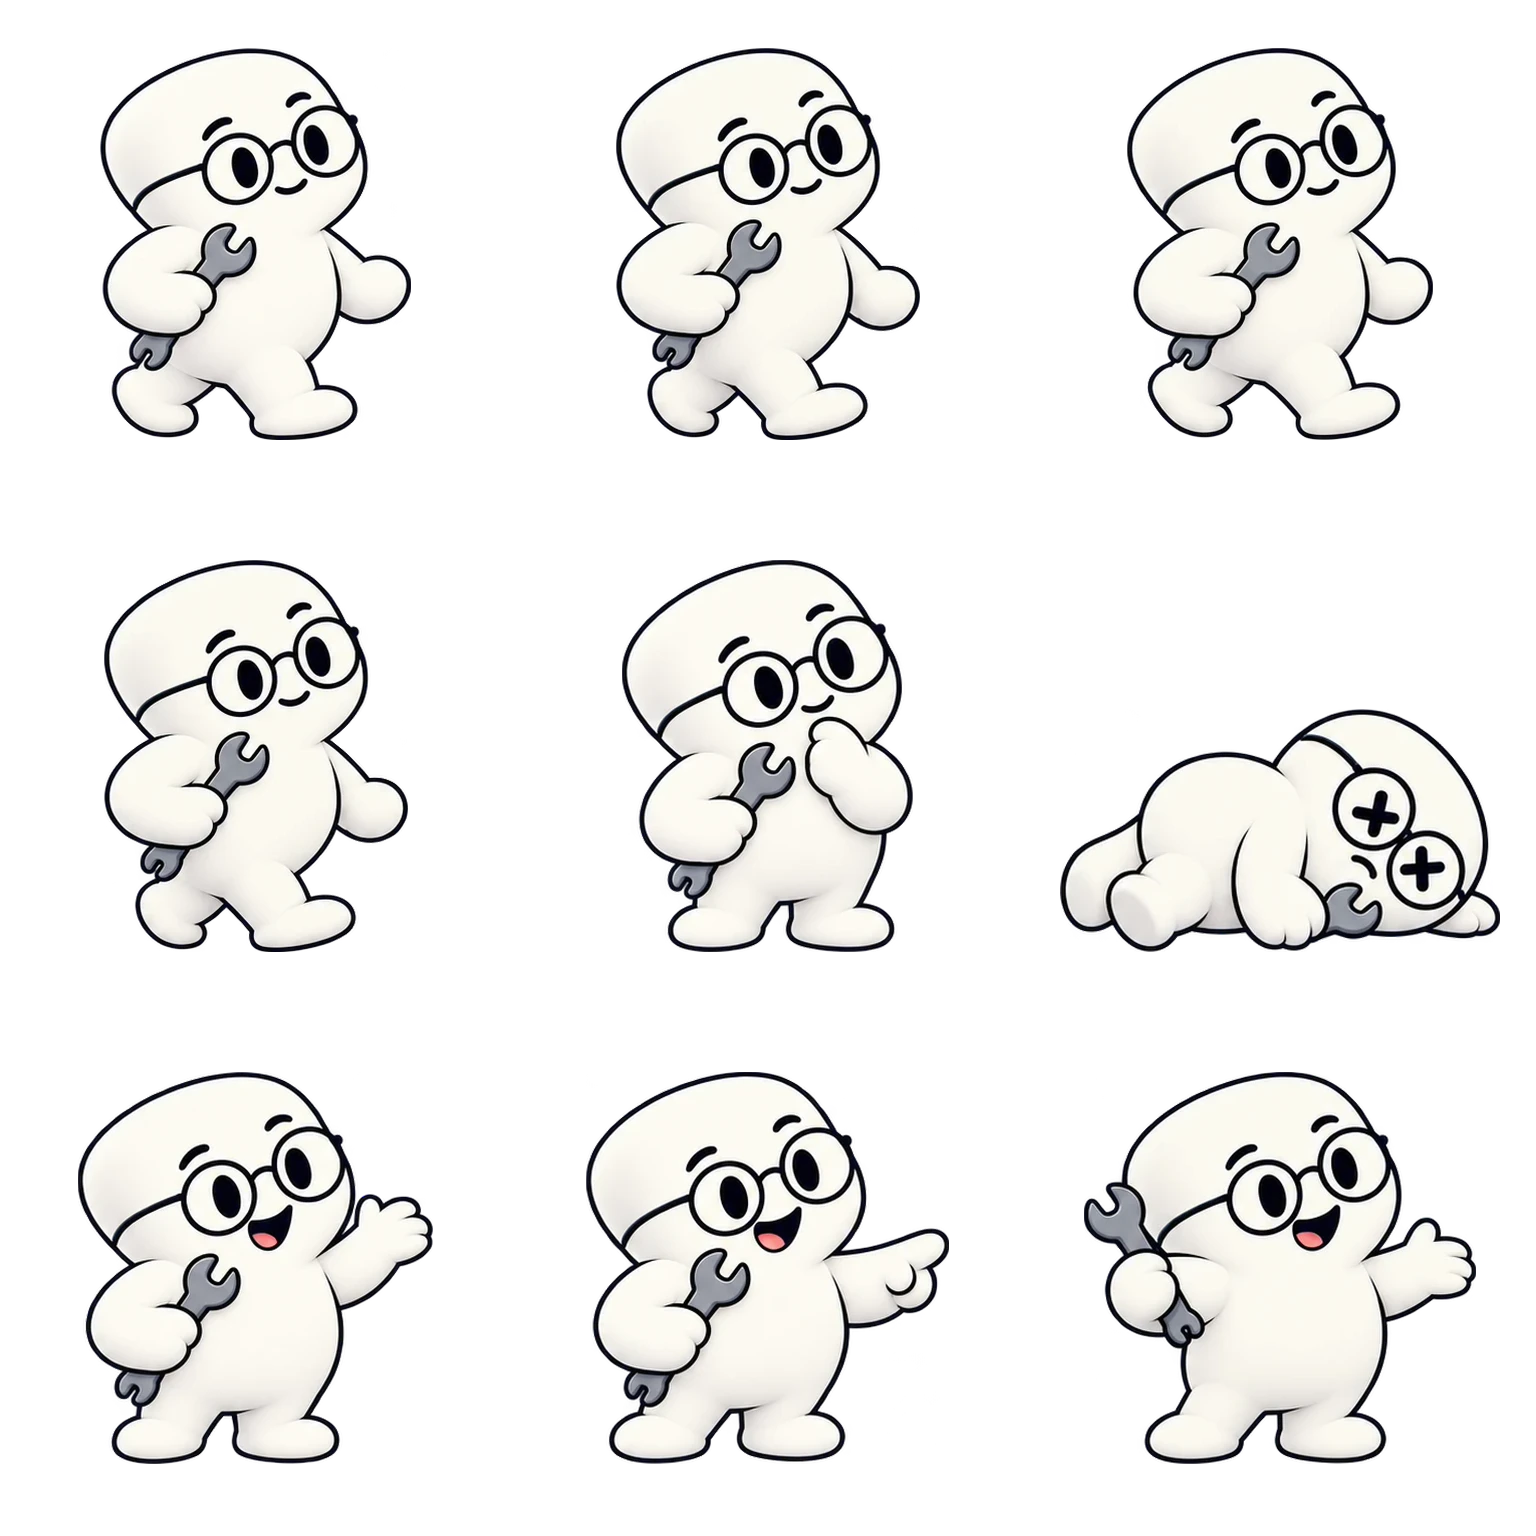
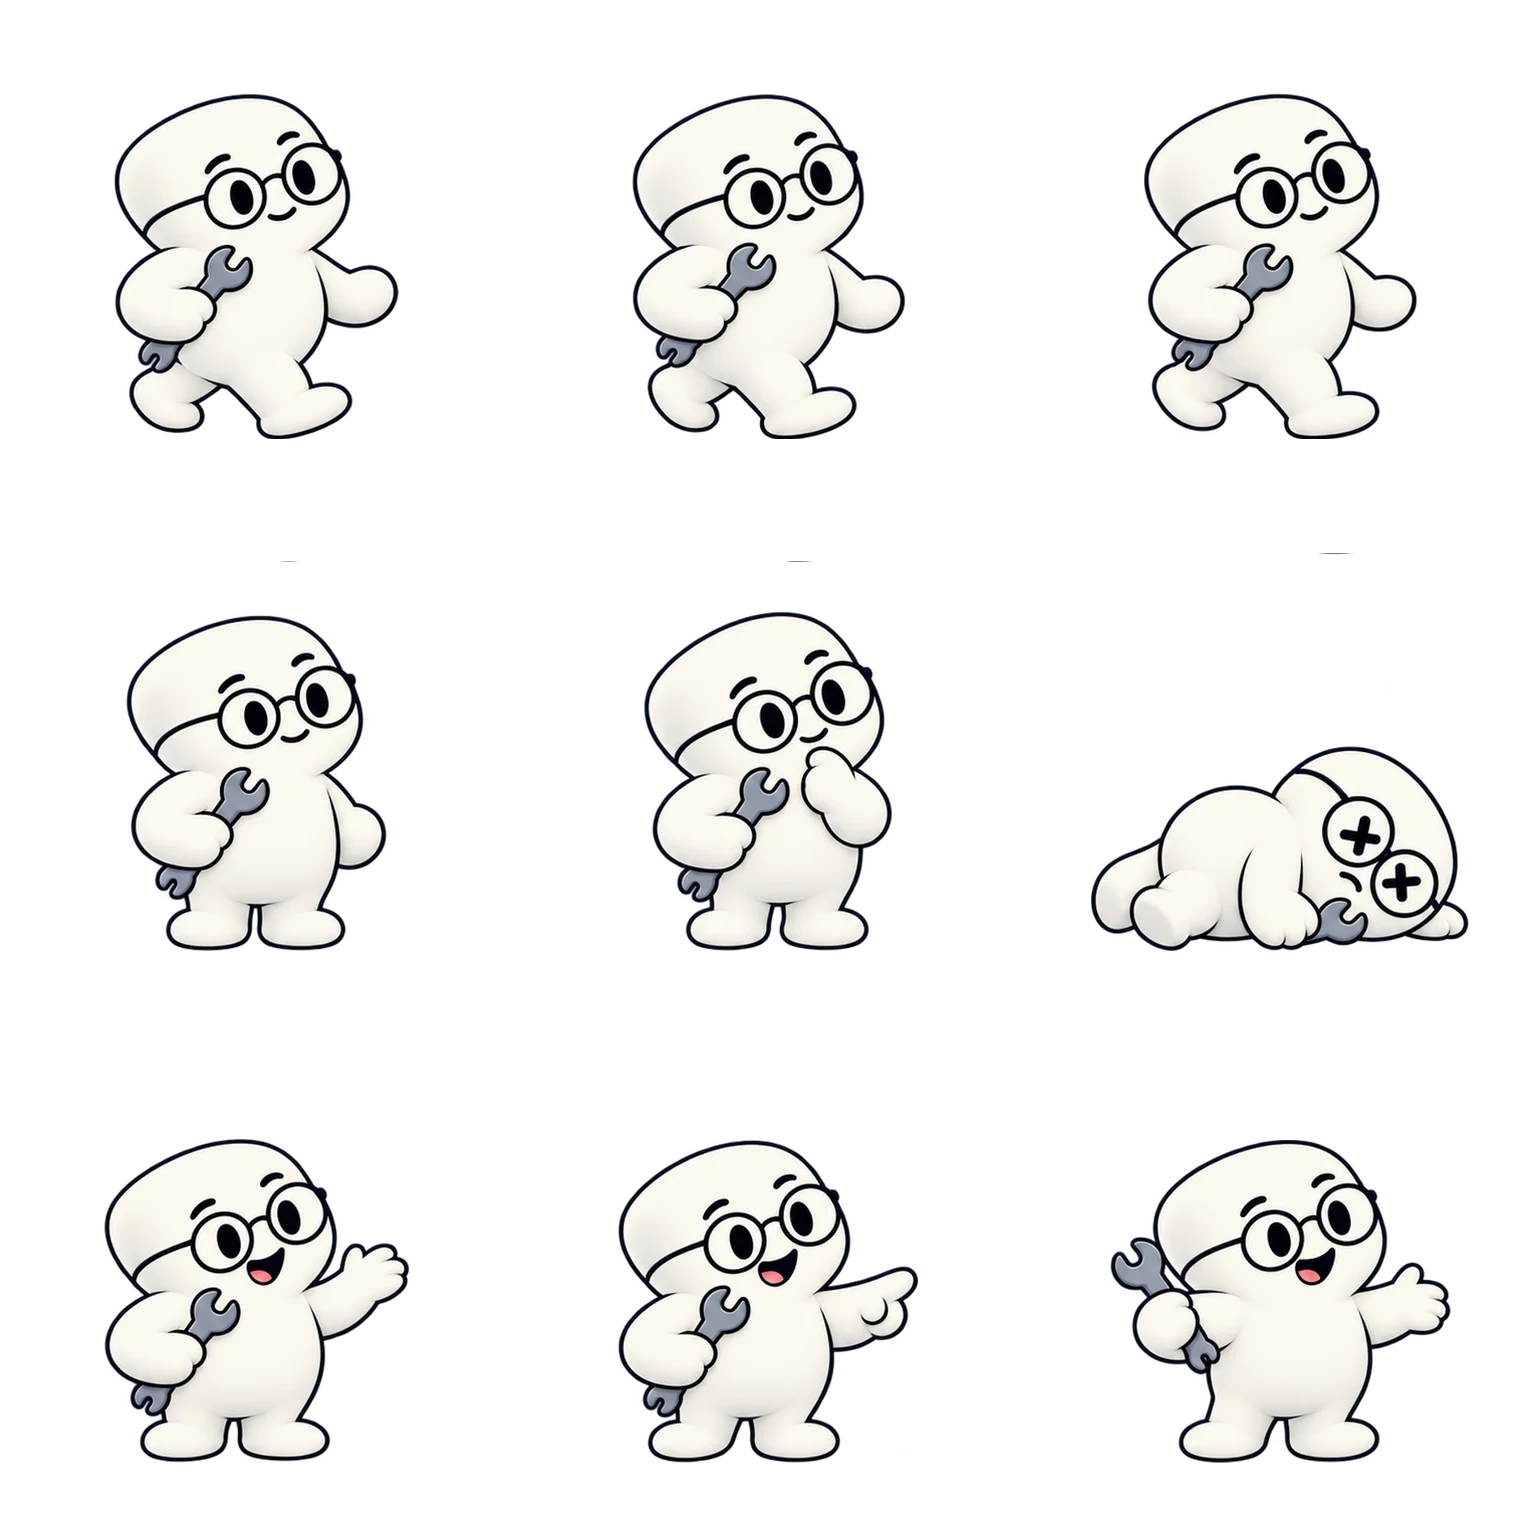
feat(about): complete skill mascot costumes and archive unused assets

diff --git a/src/features/about-me/journey.e2e.ts b/src/features/about-me/journey.e2e.ts
@@ -3,6 +3,30 @@ import { expect, test } from '@playwright/test';
 const stops = '[data-journey-stop]';
 const reachedStops = `${stops}.is-reached`;
 
+for (const width of [1280, 360]) {
+  test(`skill costumes follow their stations at ${width}px`, async ({ page }, testInfo) => {
+    await page.setViewportSize({ width, height: 800 });
+    await page.goto('/es/');
+    await page.evaluate(() => document.fonts.ready);
+    const walker = page.locator('[data-page-walker]');
+    const roles = ['backend', 'frontend', 'database', 'infrastructure', 'artificial-intelligence'];
+    for (const [index, role] of roles.entries()) {
+      await page.locator('[data-route]').last().evaluate((route, station) => {
+        const stage = route.querySelector<HTMLElement>('[data-route-stage]')!;
+        window.scrollTo({ top: window.scrollY + route.getBoundingClientRect().top + (route.clientHeight - stage.offsetHeight) * station / 4 + 2, behavior: 'instant' });
+      }, index);
+      await expect(walker).toHaveAttribute('data-mascot-role', role);
+      await expect(walker).toHaveCSS('--walking-atlas', new RegExp(`skills-${role}`));
+      await expect(walker).toHaveAttribute('data-mascot-layout', '3x3');
+      await expect(page.locator('[data-route]').last().locator('.station.is-current h3')).toHaveCSS('opacity', '1');
+      await page.evaluate(async () => {
+        await Promise.all(document.getAnimations().filter((animation) => animation.effect?.getTiming().iterations !== Infinity).map((animation) => animation.finished.catch(() => undefined)));
+      });
+      await page.screenshot({ path: testInfo.outputPath(`${role}.png`) });
+    }
+  });
+}
+
 for (const viewport of [{ width: 1280, height: 800 }, { width: 360, height: 640 }]) {
   test.describe(`mascot ages at ${viewport.width}px`, () => {
     test.use({ viewport });
@@ -41,7 +65,7 @@ for (const viewport of [{ width: 1280, height: 800 }, { width: 360, height: 640 
         await page.evaluate(() => window.scrollTo({ top: document.body.scrollHeight, behavior: 'instant' }));
         await expect(walker).toHaveClass(/is-arrived/);
         await expect(walker).toHaveAttribute('data-mascot-age', '2026');
-        await expect(walker).toHaveCSS('--reactions-atlas', /skills-glasses/);
+        await expect(walker).toHaveCSS('--reactions-atlas', /skills-artificial-intelligence/);
         if (locale === 'es') {
           await page.screenshot({ path: testInfo.outputPath('skills.png') });
         }

diff --git a/src/features/about-me/components/mascot-journey.ts b/src/features/about-me/components/mascot-journey.ts
@@ -101,6 +101,9 @@ const trackMascotJourney = () => {
       if (entry.target === lastRoute) {
         atlases.preload('frontend');
         atlases.preload('skills');
+        atlases.preload('database');
+        atlases.preload('infrastructure');
+        atlases.preload('artificial-intelligence');
       }
       atlasObserver.unobserve(entry.target);
     }
@@ -191,7 +194,7 @@ const trackMascotJourney = () => {
     atlases.show(
       visibleAge({ isOnFirstRoute, isOnLastRoute, activeStopYear: activeStop?.dataset.startYear }),
       isOnLastRoute
-        ? last.currentIndex === 0 ? 'backend' : last.currentIndex === 1 ? 'frontend' : 'skills'
+        ? (['backend', 'frontend', 'database', 'infrastructure', 'artificial-intelligence'] as const)[last.currentIndex] ?? 'skills'
         : undefined,
     );
     mascot.classList.toggle('is-arrived', last.ratio >= 1);

diff --git a/src/features/about-me/components/mascot-atlases.ts b/src/features/about-me/components/mascot-atlases.ts
@@ -1,5 +1,5 @@
 type AtlasPair = { walking: string; reactions: string; layout?: '3x3' };
-export type MascotRole = 'skills' | 'backend' | 'frontend';
+export type MascotRole = 'skills' | 'backend' | 'frontend' | 'database' | 'infrastructure' | 'artificial-intelligence';
 
 export const createMascotAtlases = (mascot: HTMLElement, signal: AbortSignal) => {
   const atlases: Record<string, AtlasPair> = JSON.parse(mascot.dataset.mascotAtlases!);

diff --git a/src/shared/mascot/mascot.md b/src/shared/mascot/mascot.md
@@ -6,17 +6,30 @@ The timeline retains the original age sheets, including the grey tuft in 2026.
 On reaching the skills route, the character keeps the glasses and returns to
 its normal appearance without the tuft:
 
-- `skills-glasses.webp`: glasses only, for the remaining skills.
+- `skills-glasses.webp`: glasses only, as the fallback for an unmapped skill.
 - `skills-backend.webp`: glasses and a mechanic's wrench.
-- `skills-frontend.webp`: glasses, an open navy jacket and a lime bow tie.
+- `skills-frontend.webp`: glasses, an open black jacket and a lime bow tie.
+- `skills-database.webp`: librarian with round glasses, a knitted cardigan and books with one lime spine.
+- `skills-infrastructure.webp`: architect with round glasses, a site helmet and a rolled blueprint.
+- `skills-artificial-intelligence.webp`: a slim black futuristic visor, without round glasses or other costume.
+
+The three remaining roles and the corrected Backend standing pose were generated
+with built-in ImageGen. The exports use real alpha, WebP quality 88 and a
+1536 × 1536 canvas. Each cell is registered independently to the shared 439px
+foot baseline with one uniform scale per sheet, keeping every drawing inside
+its cell. Working PNGs and exact prompts live in the private Studio repository
+at `images/assets/mascot-skills/`. Database's thinking pose keeps the books
+under one arm and the other hand at the chin; its welcoming pose retains the
+books and extends only the free arm. Infrastructure stands with both feet
+planted; AI welcomes with both hands empty and arms open.
 
 These transparent 1536 × 1536 sheets use three columns and three rows: walking
 frames; standing/thinking/fallen; presenting/explaining/welcoming. The runtime
 uses the final row for reactions. The Backend sheet's middle pose holds the
 wrench near the chin. Accessories are integrated pose by pose. Every cell is
-registered with its feet at 85.7% of the cell height. In the Glasses and Frontend
-sheets, the fallen pose loses part of a foot and Frontend's welcoming pose part
-of a hand: the original generation crossed the cell edge.
+registered with its feet at 85.7% of the cell height. The original Glasses
+fallback still loses part of a foot in its fallen pose; the active skill
+costumes use individually registered cells with safe margins.
 
 The built-in ImageGen tool used the existing walking and reaction sheets and
 the approved costume study as references. The brief preserved body proportions,
@@ -102,15 +115,15 @@ All variants use native 1536 × 1024 WebP with alpha, quality 88.
 
 The student first appears upon entering the 2019 timeline stop in Trayectoria.
 Lo que aporto keeps the original character. Do not select the student atlas
-before the timeline begins. Lo que conozco uses the 2026 walking and reaction
-atlases. Reverse scrolling must restore the corresponding earlier age and,
+before the timeline begins. Lo que conozco uses the costume for each skill,
+with the glasses-only sheet as its fallback. Reverse scrolling must restore the corresponding earlier age and,
 when leaving the timeline upwards, the original character.
 
 The home page preloads only the original walking and reaction atlases. Other
 pairs are prefetched as their timeline stops approach the viewport and decoded
 before replacing the visible pair. A delayed load cannot override a newer age
 request. The active timeline stop supplies its start year; the contributions
-and skills routes retain their original and mature appearances respectively.
+and skills routes use the original and role-specific appearances respectively.
 Preserve the existing walking, keyboard and swipe controls during integration.
 
 ### Final age prompts
@@ -165,7 +178,7 @@ Six poses in exact reading order: TOP LEFT cheerful presenting with one hand rai
 ### Asset review
 
 All 30 cells were reviewed at 60px and 120px on white and near-black (`#10141c`).
-See [age variants review](review/age-variants.webp). The WebP exports retain real
+The review sheet is archived in Studio at `images/assets/archive/unused-blog-assets/age-variants.webp`. The WebP exports retain real
 alpha and their native 1536 × 1024 resolution.
 
 The generated variants follow the source registration rather than meeting an
